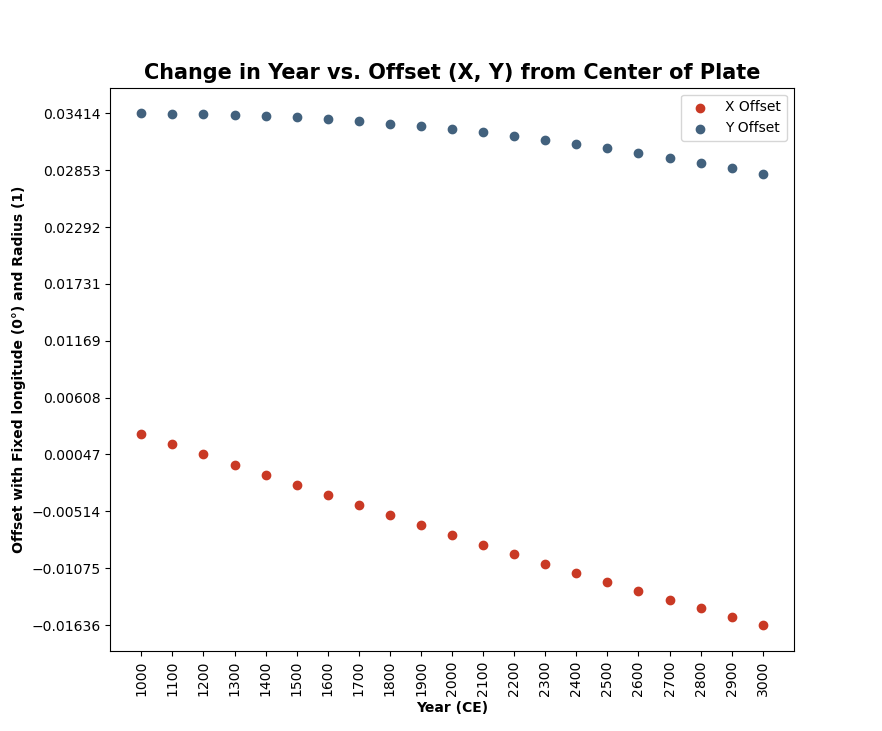
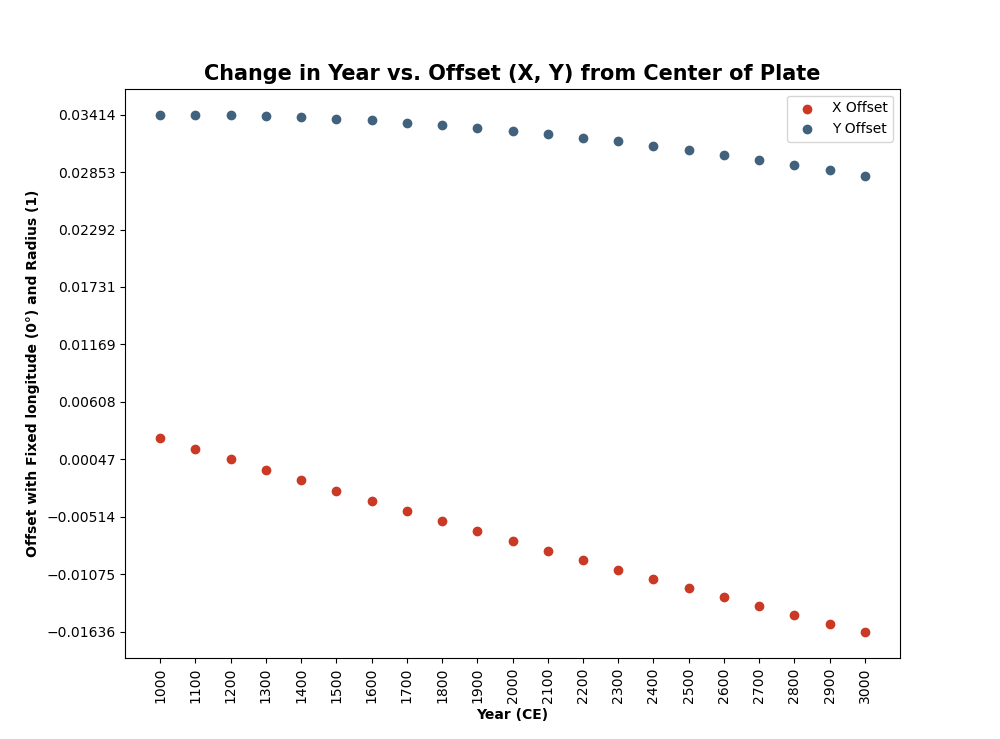
update pngs

diff --git a/page_21_astrolabe/calculate_eccentric_calendar_offset.py b/page_21_astrolabe/calculate_eccentric_calendar_offset.py
@@ -8,6 +8,7 @@ import logging
 import matplotlib.pyplot as plt
 
 yearToCalculate = 2026 # Year (YYYY) in CE
+plot_transparent_background = False
 
 def determineApside(julian_time):
 	# Define the line of apsides (longitude of aphelion and perihelion)
@@ -34,7 +35,7 @@ def determineAngularDistanceEquinox(julian_time, given_longitude, given_aphelion
 	angular_distance_equinox -= 360 # reversed from the original position
 	logger.info(f"Line of Apside relative to Vernal Equinox for Longitude {given_longitude}° = {angular_distance_equinox}°\n")
 
-	return angular_distance_equinox
+	return angular_distance_equinox, mean_anomaly_jan0
 
 def offsetfromCenterOfPlate(julian_time, radius_of_plate, given_perihelion):
 	# offset from the center of the plate
@@ -66,7 +67,7 @@ def plotEccentricityOverTime(offset_year):
 	plt.ylabel("Eccentricity", weight='bold')
 	plt.scatter(x_year_range, y_eccentricity, c="#C93924")
 	plt.show()
-	fig.savefig('calculate_eccentric_calendar_offset_outputs/eccentric_calendar_change_in_year_versus_eccentricity.png', dpi=fig.dpi, transparent=False)
+	fig.savefig('calculate_eccentric_calendar_offset_outputs/eccentric_calendar_change_in_year_versus_eccentricity.png', dpi=fig.dpi, transparent=plot_transparent_background)
 
 def plotYearToOffset(offset_year, year_to_calculate, radius_of_plate, given_longitude):
 	# plot Year vs. Offset for fixed longitude (0°) for radius 1
@@ -80,7 +81,7 @@ def plotYearToOffset(offset_year, year_to_calculate, radius_of_plate, given_long
 		julian_time = (year - 2000) / 100 # Calculate the time in Julian centuries from J2000.0
 		logger.info(f"Julian Time in Centuries for the Year {year} = {julian_time}")
 		offset_perihelion, offset_aphelion = determineApside(julian_time)
-		vernal_equinox_angle = determineAngularDistanceEquinox(julian_time, given_longitude, offset_aphelion)
+		vernal_equinox_angle, _ = determineAngularDistanceEquinox(julian_time, given_longitude, offset_aphelion)
 		x_offset, y_offset = offsetfromCenterOfPlate(julian_time, radius_of_plate, offset_perihelion)
 		y_offset_x.append(x_offset)
 		y_offset_y.append(y_offset)
@@ -94,7 +95,7 @@ def plotYearToOffset(offset_year, year_to_calculate, radius_of_plate, given_long
 	plt.scatter(x_year_range, y_offset_y, c="#42617D")
 	plt.legend(["X Offset", "Y Offset"])
 	plt.show()
-	fig.savefig('calculate_eccentric_calendar_offset_outputs/eccentric_calendar_change_in_year_versus_offset.png', dpi=fig.dpi, transparent=False)
+	fig.savefig('calculate_eccentric_calendar_offset_outputs/eccentric_calendar_change_in_year_versus_offset.png', dpi=fig.dpi, transparent=plot_transparent_background)
 
 def plotLongitudeToAngularDistance(year_to_calculate):
 	# plot Year vs. Longitude for fixed year (2024) for radius 1
@@ -104,20 +105,43 @@ def plotLongitudeToAngularDistance(year_to_calculate):
 
 	y_angular_distance_apside = []
 	for x_longitude in x_range_longitude:
-		julian_time = (yearToCalculate - 2000) / 100 # Calculate the time in Julian centuries from J2000.0
-		logger.info(f"Julian Time in Centuries for the Year {yearToCalculate} = {julian_time}")
+		julian_time = (year_to_calculate - 2000) / 100 # Calculate the time in Julian centuries from J2000.0
+		logger.info(f"Julian Time in Centuries for the Year {year_to_calculate} = {julian_time}")
 		x_perihelion, x_aphelion = determineApside(julian_time)
-		vernal_equinox_angle = determineAngularDistanceEquinox(julian_time, x_longitude, x_aphelion)
+		vernal_equinox_angle, _ = determineAngularDistanceEquinox(julian_time, x_longitude, x_aphelion)
 		y_angular_distance_apside.append(vernal_equinox_angle)
 
 	plt.xticks(x_range_longitude, rotation=90)
 	plt.yticks(np.linspace(min(y_angular_distance_apside), max(y_angular_distance_apside), 10))
 	plt.title("Change in Longitude vs. Angluar Distance to Vernal Equinox", fontsize=15, weight='bold')
 	plt.xlabel("Longitude (°)", weight='bold')
-	plt.ylabel(f"Vernal Equinox Angle (Apside) with Fixed Year ({yearToCalculate}) and Radius (1)", weight='bold')
+	plt.ylabel(f"Vernal Equinox Angle (Apside) with Fixed Year ({year_to_calculate}) and Radius (1)", weight='bold')
 	plt.scatter(x_range_longitude, y_angular_distance_apside, c="#C93924")
 	plt.show()
-	fig.savefig('calculate_eccentric_calendar_offset_outputs/eccentric_calendar_change_in_longitude_versus_angular_distance.png', dpi=fig.dpi, transparent=False)
+	fig.savefig('calculate_eccentric_calendar_offset_outputs/eccentric_calendar_change_in_longitude_versus_angular_distance.png', dpi=fig.dpi, transparent=plot_transparent_background)
+	
+def plotMeanAnomaly(offset_year, year_to_calculate, radius_of_plate, given_longitude):
+	# plot Year vs. Mean Anomaly for fixed longitude and for radius 1
+	fig = plt.figure(figsize=(10,10), dpi=100)
+	ax = fig.subplots()
+	x_year_range = np.arange(1800, 2000+offset_year+1, 100)
+
+	y_mean_anomaly = []
+	for year in x_year_range:
+		julian_time = (year - 2000) / 100 # Calculate the time in Julian centuries from J2000.0
+		logger.info(f"Julian Time in Centuries for the Year {year} = {julian_time}")
+		x_perihelion, x_aphelion = determineApside(julian_time)
+		_, mean_anomaly_jan0 = determineAngularDistanceEquinox(julian_time, given_longitude, x_aphelion)
+		y_mean_anomaly.append(mean_anomaly_jan0)
+
+	plt.xticks(x_year_range, rotation=90)
+	plt.yticks(np.linspace(min(y_mean_anomaly), max(y_mean_anomaly), 10))
+	plt.title("Change in Mean Anomaly on January 0 and Angular Distance to Vernal Equinox", fontsize=15, weight='bold')
+	plt.xlabel("Year (CE)", weight='bold')
+	plt.ylabel(f"Vernal Equinox Angle with Fixed Longitude ({given_longitude}) and Radius (1)", weight='bold')
+	plt.scatter(x_year_range, y_mean_anomaly, c="#C93924")
+	plt.show()
+	fig.savefig('calculate_eccentric_calendar_offset_outputs/eccentric_calendar_change_in_time_vs_mean_anomaly.png', dpi=fig.dpi, transparent=plot_transparent_background)
 
 if __name__ == '__main__':
 	logger = logging.getLogger(__name__)
@@ -134,7 +158,7 @@ if __name__ == '__main__':
 
 	# Calculate the time in Julian centuries from J2000.0 (example)
 	julianTime = (yearToCalculate - 2000) / 100
-	logger.info(f"EXAMPLE:\nFor the Year {yearToCalculate} at longitude {longitude}° for a plate with a radius of {radiusOfPlate}\n")
+	logger.info(f"EXAMPLE:\nFor the Year {yearToCalculate} at longitude {longitude}° for a plate with a radius of {radiusOfPlate}\n\nEccentricity = {determineEccentrictiyOverTime(julianTime):3f}")
 	perihelion, aphelion = determineApside(julianTime)
 	vernal_equinox_angle = determineAngularDistanceEquinox(julianTime, longitude, aphelion)
 	x_offset, y_offset = offsetfromCenterOfPlate(julianTime, radiusOfPlate, perihelion)
@@ -142,7 +166,8 @@ if __name__ == '__main__':
 	# Plot how the Longitude and Year change the Offset and Apside
 	if plotGraphs:
 		offset_year = 1000 # (+/-) x years
-		#logger.setLevel(logging.WARN)
+		logger.setLevel(logging.WARN)
 		plotEccentricityOverTime(offset_year)
 		plotYearToOffset(offset_year, yearToCalculate, radiusOfPlate, longitude)
 		plotLongitudeToAngularDistance(yearToCalculate)
+		plotMeanAnomaly(offset_year, yearToCalculate, radiusOfPlate, longitude)

diff --git a/README.md b/README.md
@@ -120,6 +120,7 @@ Variables:
 ```
 For the Year 2026 at longitude -105.2705° for a plate with a radius of 1.0
 
+Eccentricity = 0.016698
 Perihelion = 103.384456°
 Aphelion   = 283.384456°
 Mean Anomaly of Jan 0 = 357.282167°
@@ -129,13 +130,13 @@ Offset due to Eccentricity with radius of 1.0 = 0.033395
 X offset with radius of 1.0 = -0.007730
 Y offset with radius of 1.0 = 0.032488
 ```
-_How Changing the Year Changes Eccentricity_
+_How Eccentricity Changes over Time_
 ![change_in_year_eccentricity+png](https://github.com/cyschneck/History-Survival-Guide/blob/master/page_21_astrolabe/calculate_eccentric_calendar_offset_outputs/eccentric_calendar_change_in_year_versus_eccentricity.png)
-_How Changing the Year Changes the Offset (X, Y)_
+_How Offset (X, Y) Changes over Time_
 ![change_in_year_offset+png](https://github.com/cyschneck/History-Survival-Guide/blob/master/page_21_astrolabe/calculate_eccentric_calendar_offset_outputs/eccentric_calendar_change_in_year_versus_offset.png)
 _How Changing the Longitude Changes the Angular Distance to the Vernal Equinox_
 ![change_in_longitude_angular_distance+png](https://github.com/cyschneck/History-Survival-Guide/blob/master/page_21_astrolabe/calculate_eccentric_calendar_offset_outputs/eccentric_calendar_change_in_longitude_versus_angular_distance.png)
-
-**Constructing a Star Chart**
+_How Changing the Mean Anomaly Changes over Time_
+![change_in_longitude_angular_distance+png](https://github.com/cyschneck/History-Survival-Guide/blob/master/page_21_astrolabe/calculate_eccentric_calendar_offset_outputs/eccentric_calendar_change_in_time_vs_mean_anomaly.png)
 
 
